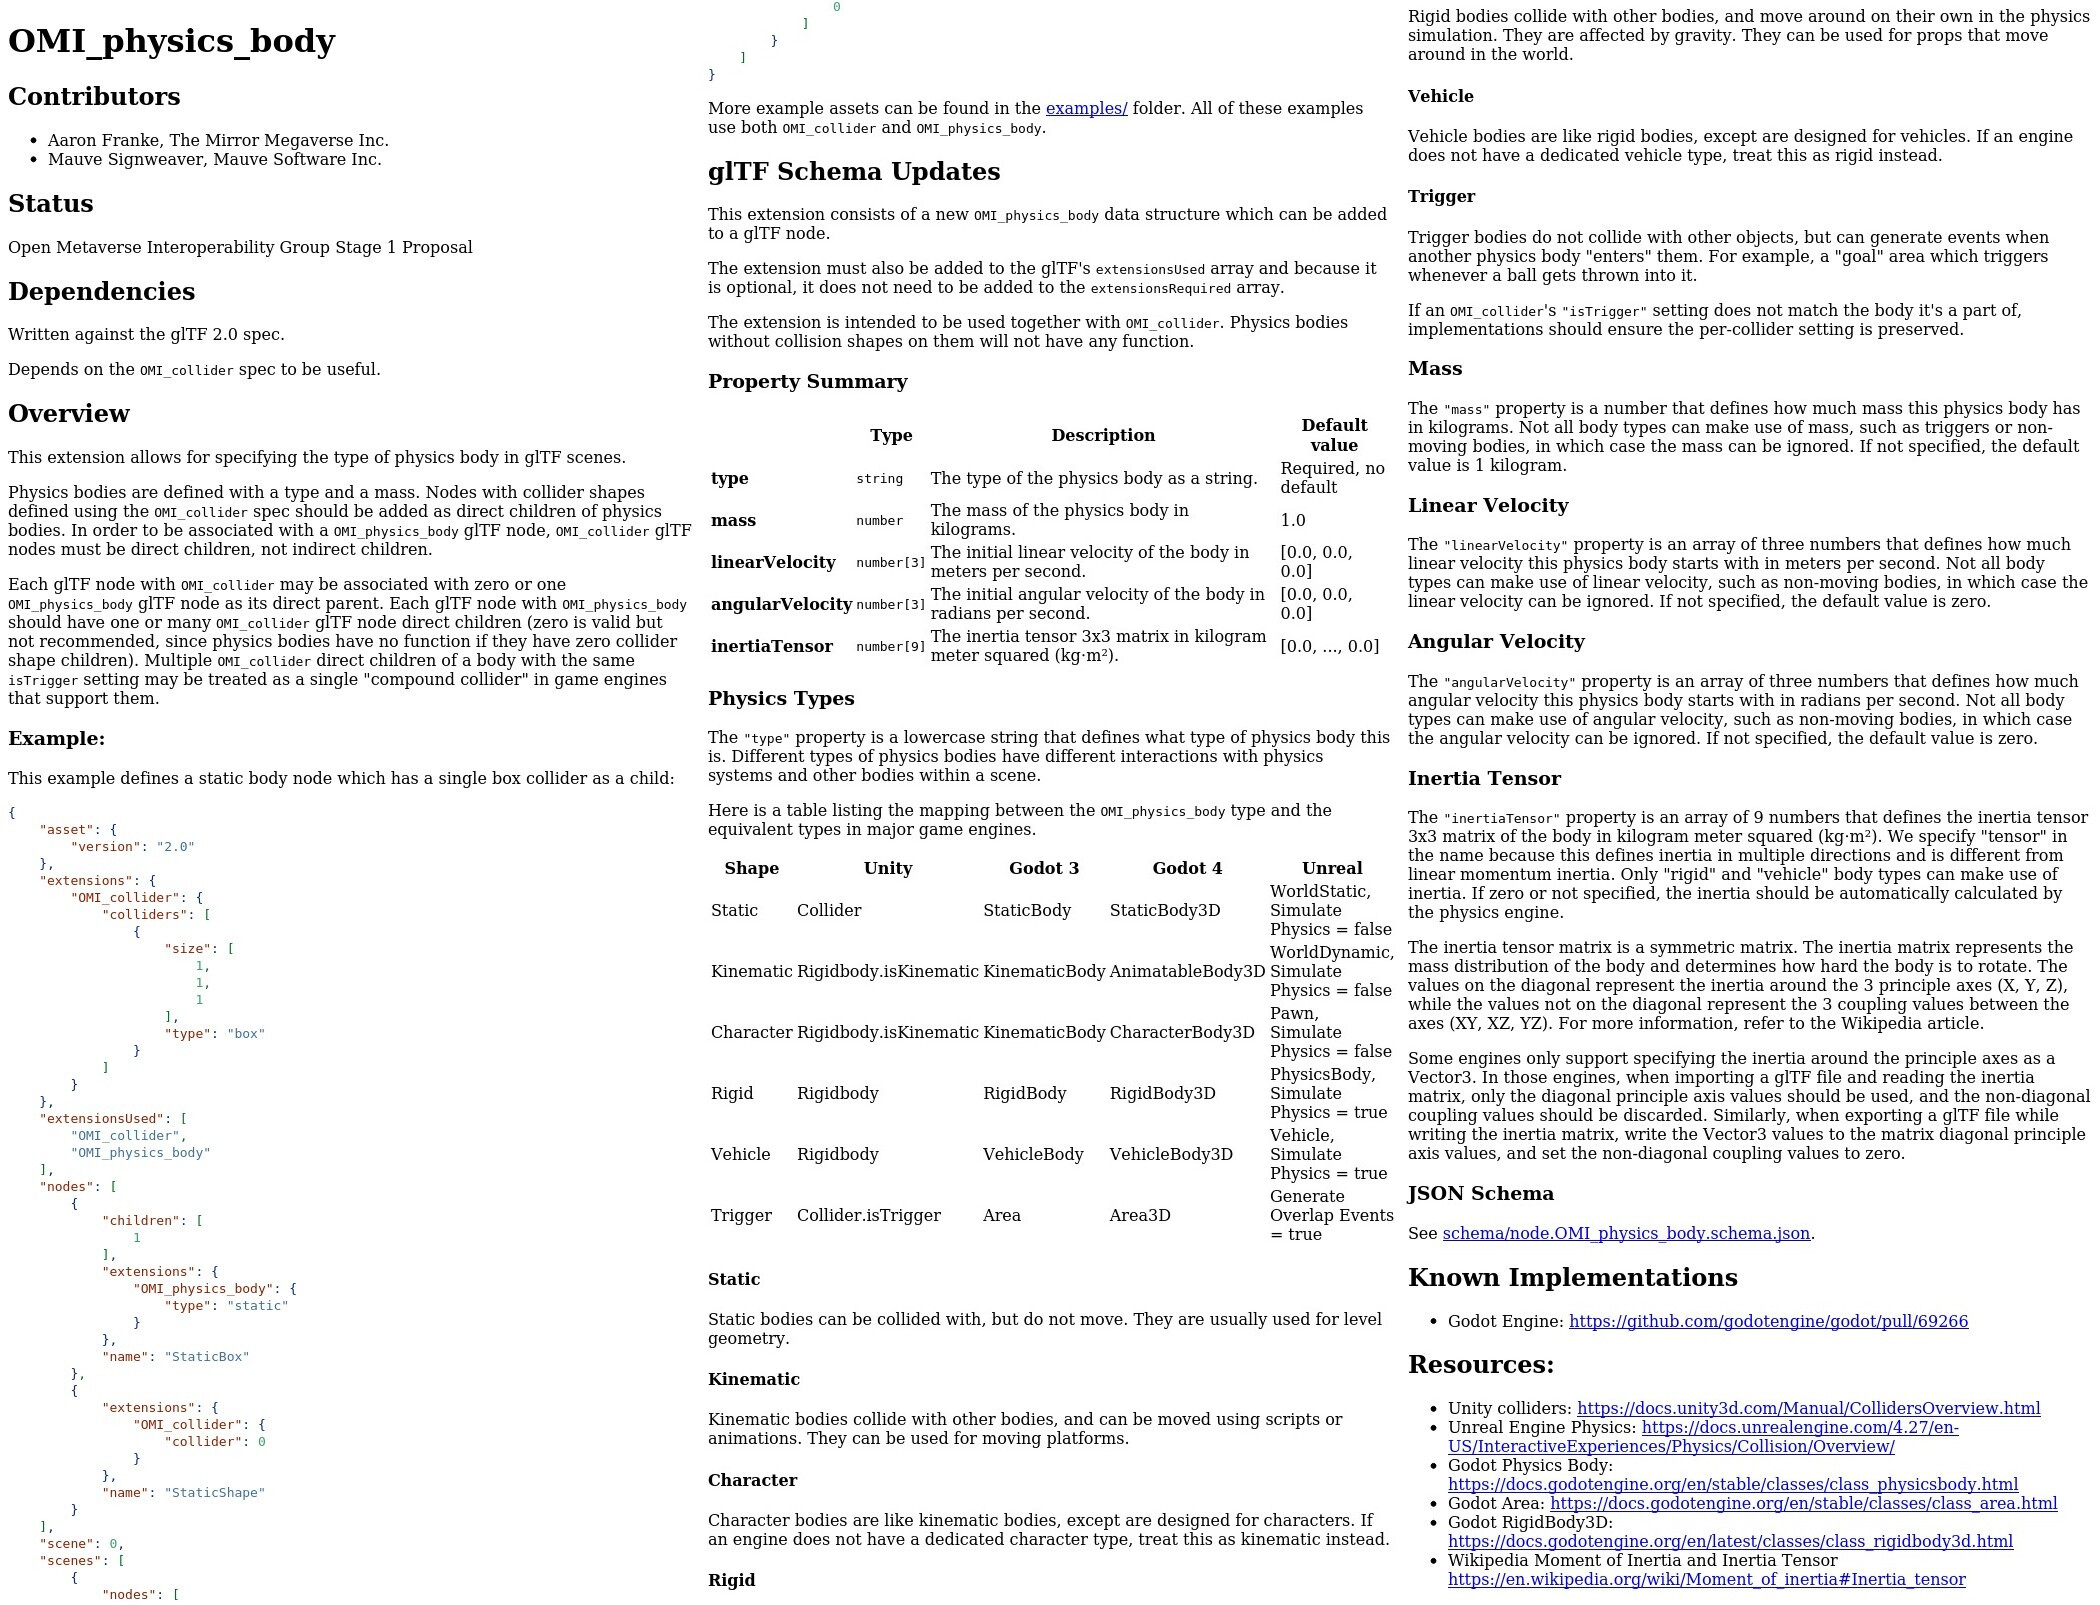
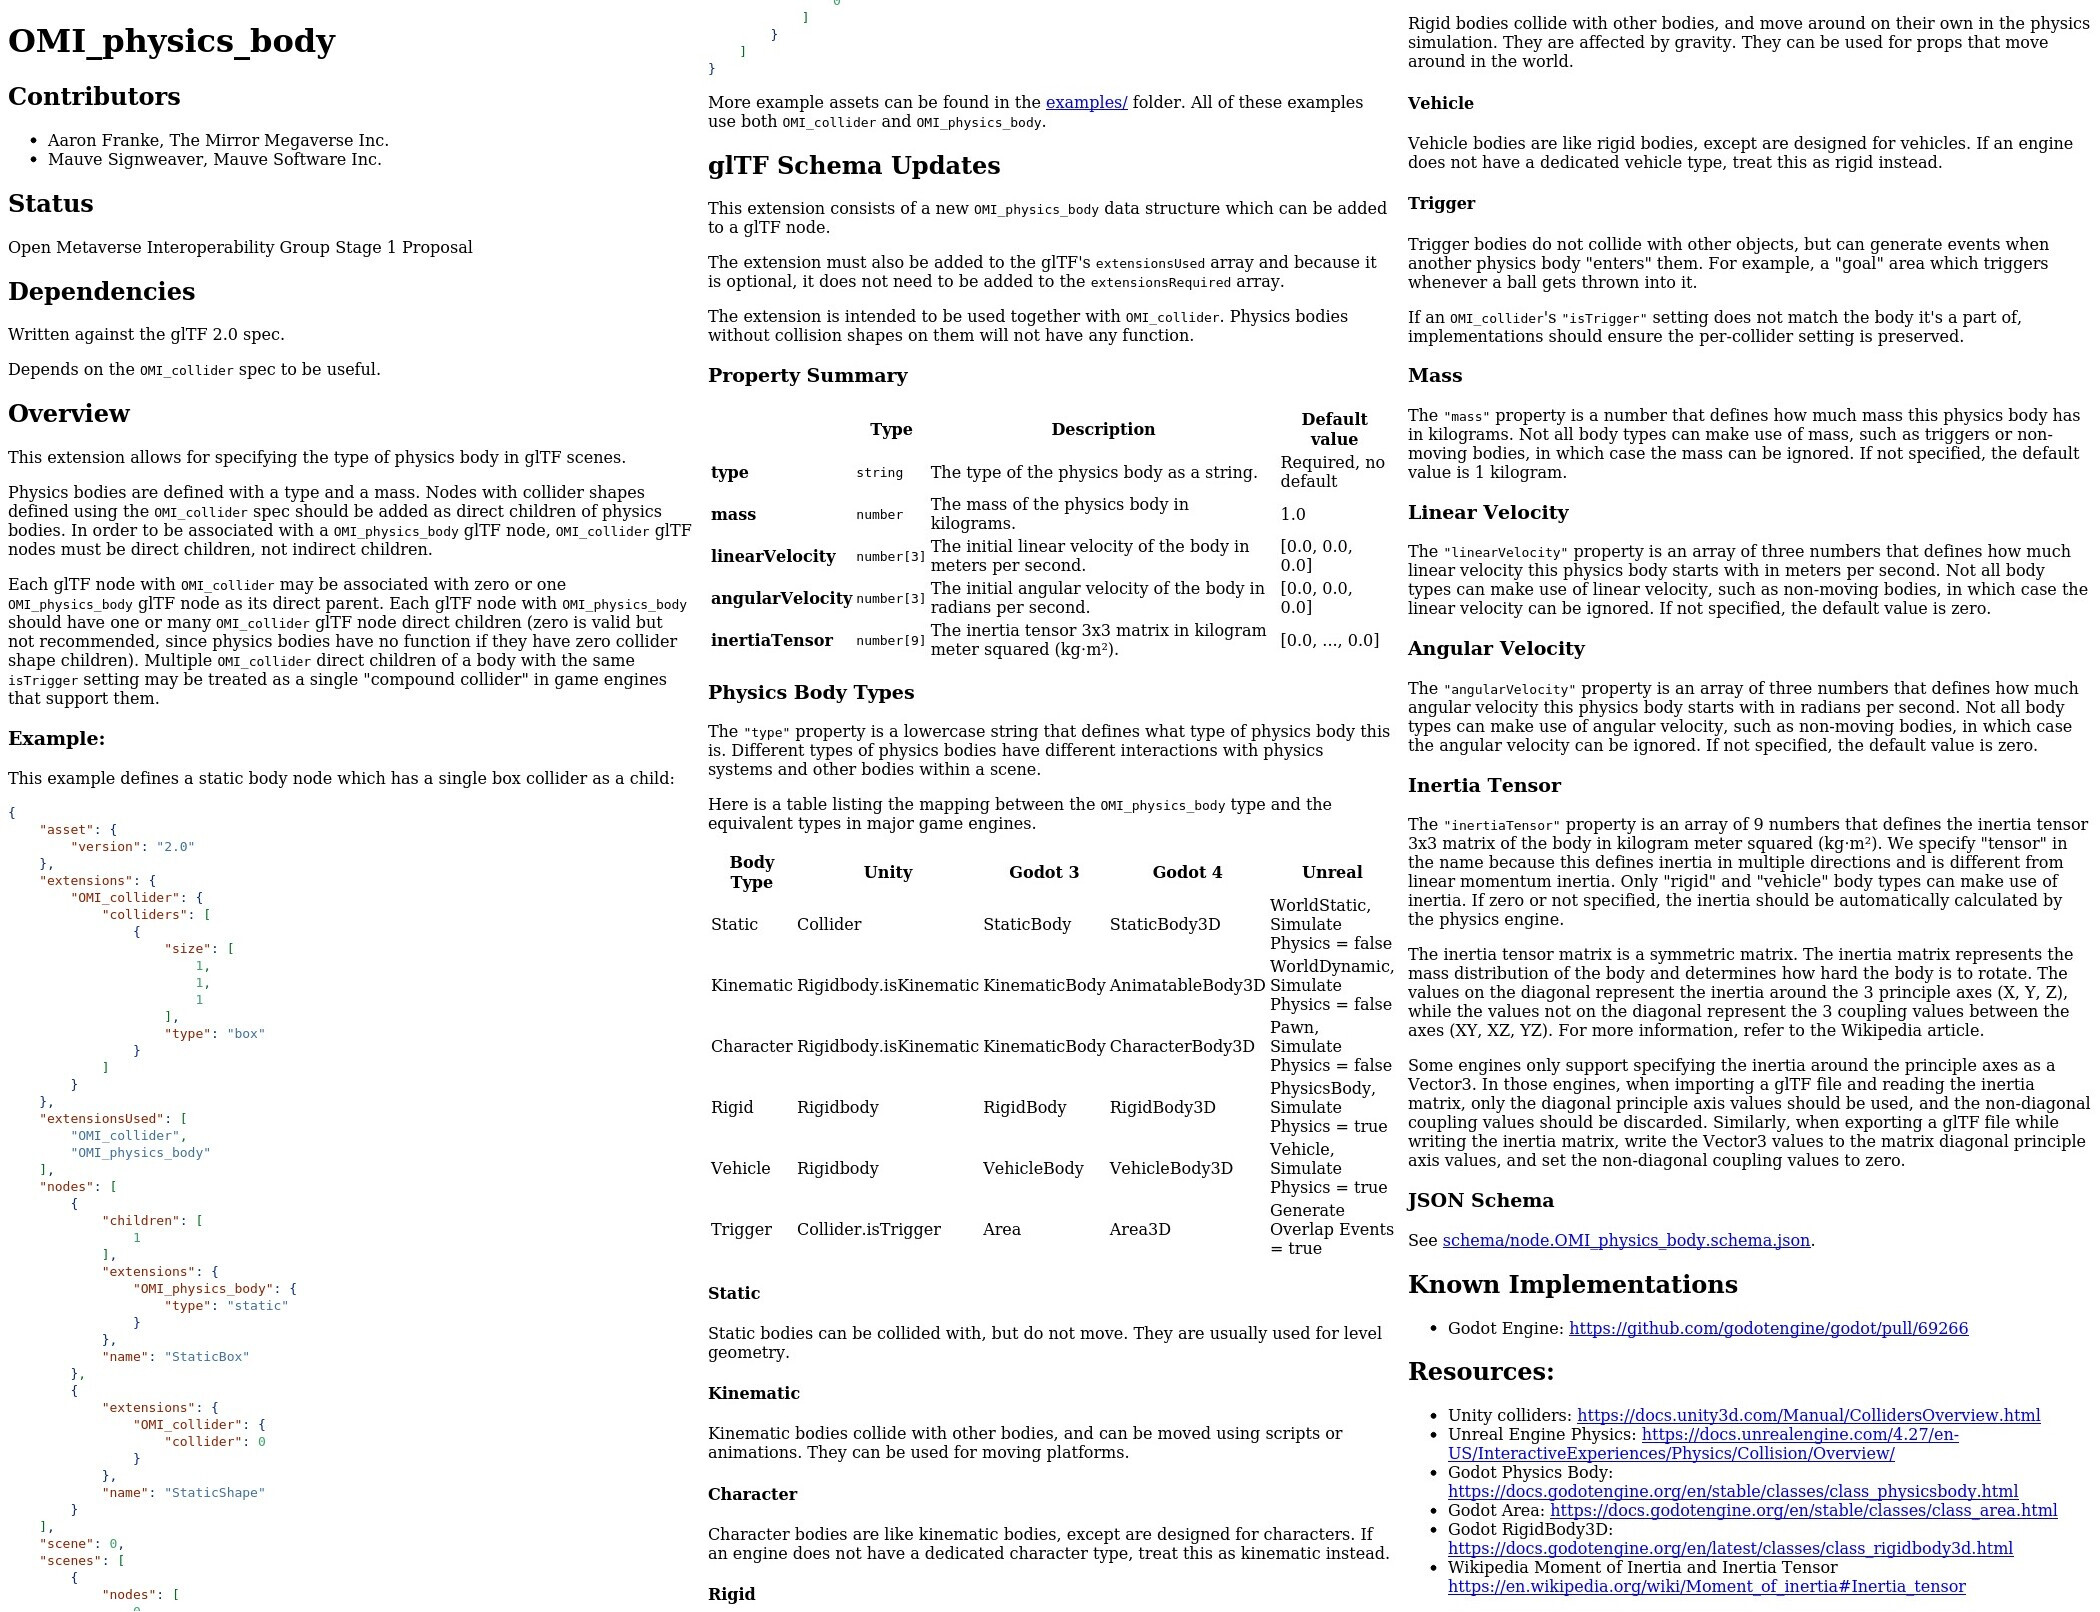
Update READMEs

diff --git a/extensions/2.0/OMI_physics_body/OMI_physics_body.html b/extensions/2.0/OMI_physics_body/OMI_physics_body.html
@@ -195,13 +195,13 @@
 </tr>
 </tbody>
 </table>
-<h3 id="physics-types">Physics Types</h3>
+<h3 id="physics-body-types">Physics Body Types</h3>
 <p>The <code>"type"</code> property is a lowercase string that defines what type of physics body this is. Different types of physics bodies have different interactions with physics systems and other bodies within a scene.</p>
 <p>Here is a table listing the mapping between the <code>OMI_physics_body</code> type and the equivalent types in major game engines.</p>
 <table>
 <thead>
 <tr class="header">
-<th>Shape</th>
+<th>Body Type</th>
 <th>Unity</th>
 <th>Godot 3</th>
 <th>Godot 4</th>
